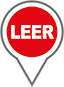
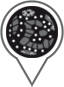
change to oz

diff --git a/src/mobile/js/app-mobile.js b/src/mobile/js/app-mobile.js
@@ -61,18 +61,19 @@ app.config([
         });
         $mdThemingProvider.definePalette('white', whiteMap);
 
-        // added the leerstand color to the palette
+        // added the oz color to the palette
 
-        var leerstandMap = $mdThemingProvider.extendPalette('white', {
-            '500': 'ed1c24'
+        var ozMap = $mdThemingProvider.extendPalette('white', {
+            '500': '#000000'
         });
-        $mdThemingProvider.definePalette('leerstand', leerstandMap);
+        $mdThemingProvider.definePalette('oz', ozMap);
 
         // TODO: abstract this theme style out to config
         $mdThemingProvider.theme('default')
-            .primaryPalette('leerstand')
-            .accentPalette('deep-orange')
-            .warnPalette('red');
+            .primaryPalette('grey',{
+                'default': '900'})
+            .accentPalette('grey',{
+                'default': '700'}); //.dark();
 
         // TODO: check user preference with custom pref
         // see: http://angular-translate.github.io/docs/en/#/guide/11_custom-storages

diff --git a/src/shared/js/directives/lsm-map.js b/src/shared/js/directives/lsm-map.js
@@ -54,7 +54,7 @@ var MapDirective = function ($window, $timeout, mapService, $translate, assetPat
                             var data = e.target.options.data;
                             var popup = "";
                             popup += '<div>';
-                            if (data.thumb_url) {
+                            if (data.thumb_square_url) {
                                 popup += '<img class="popup_thumb" src="'+data.thumb_square_url+'" width="80px" height="80px" style="width:80px;height:80px;padding-right:1em" flex/>';
                             }
                             popup += '<div>';
